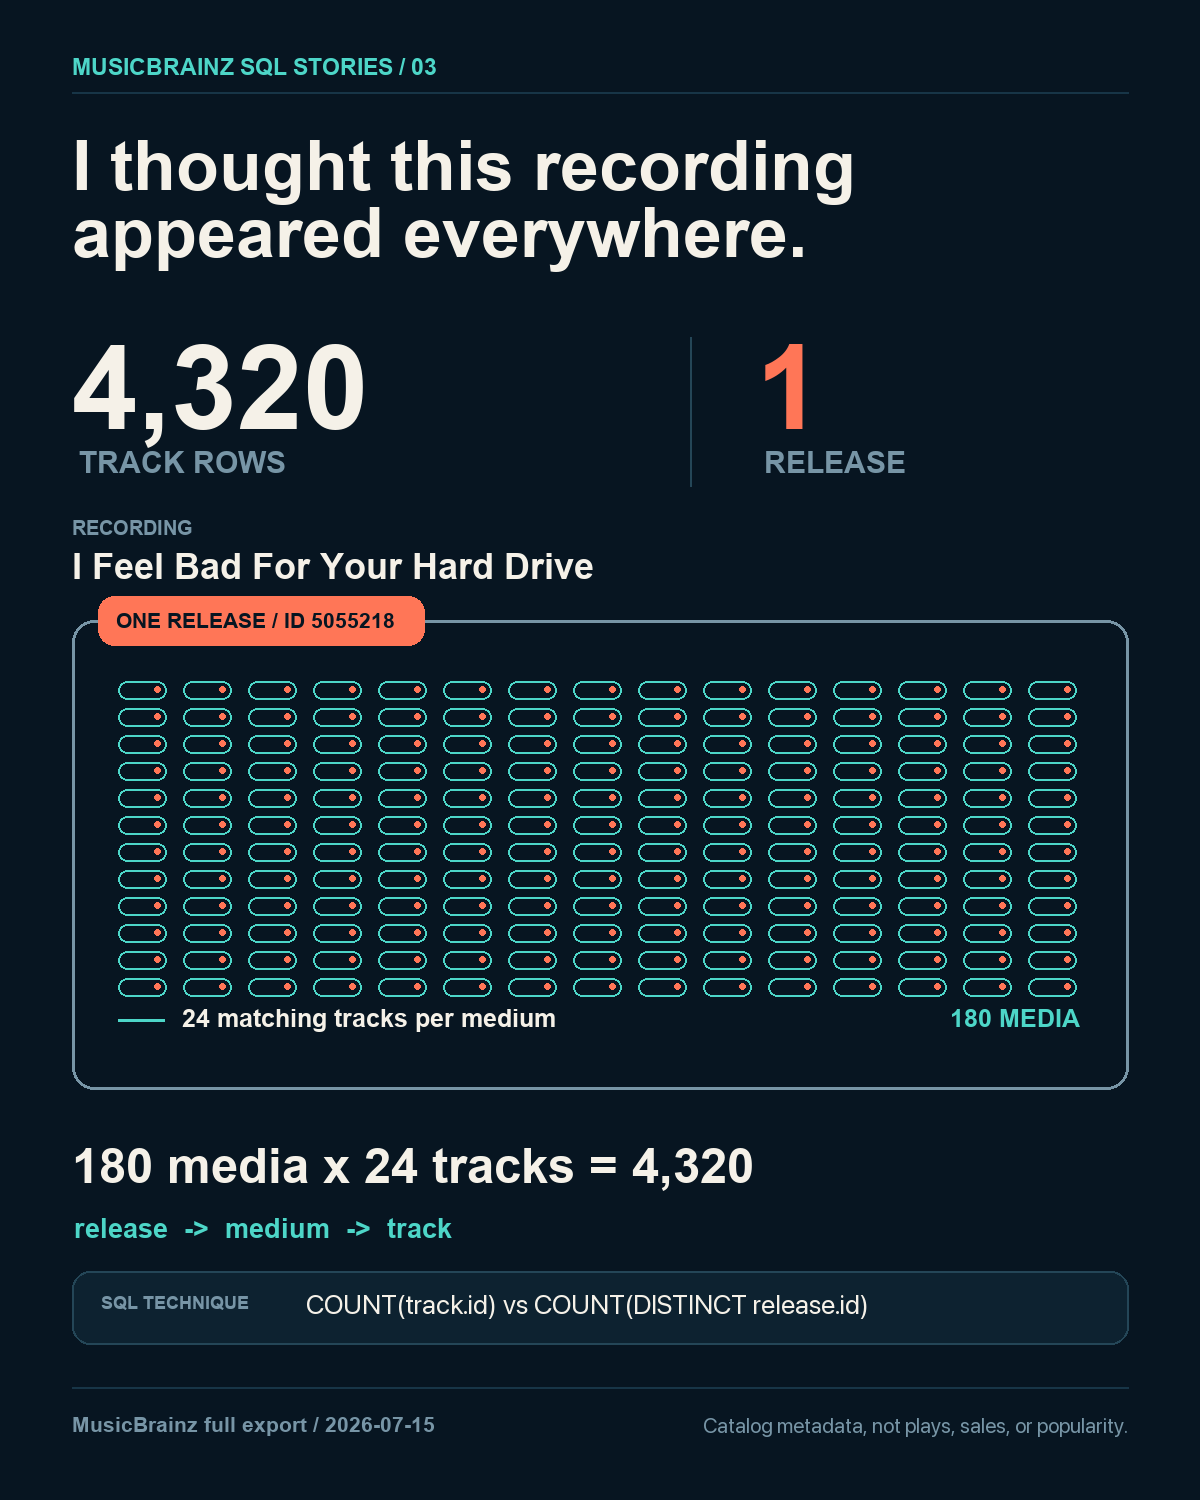
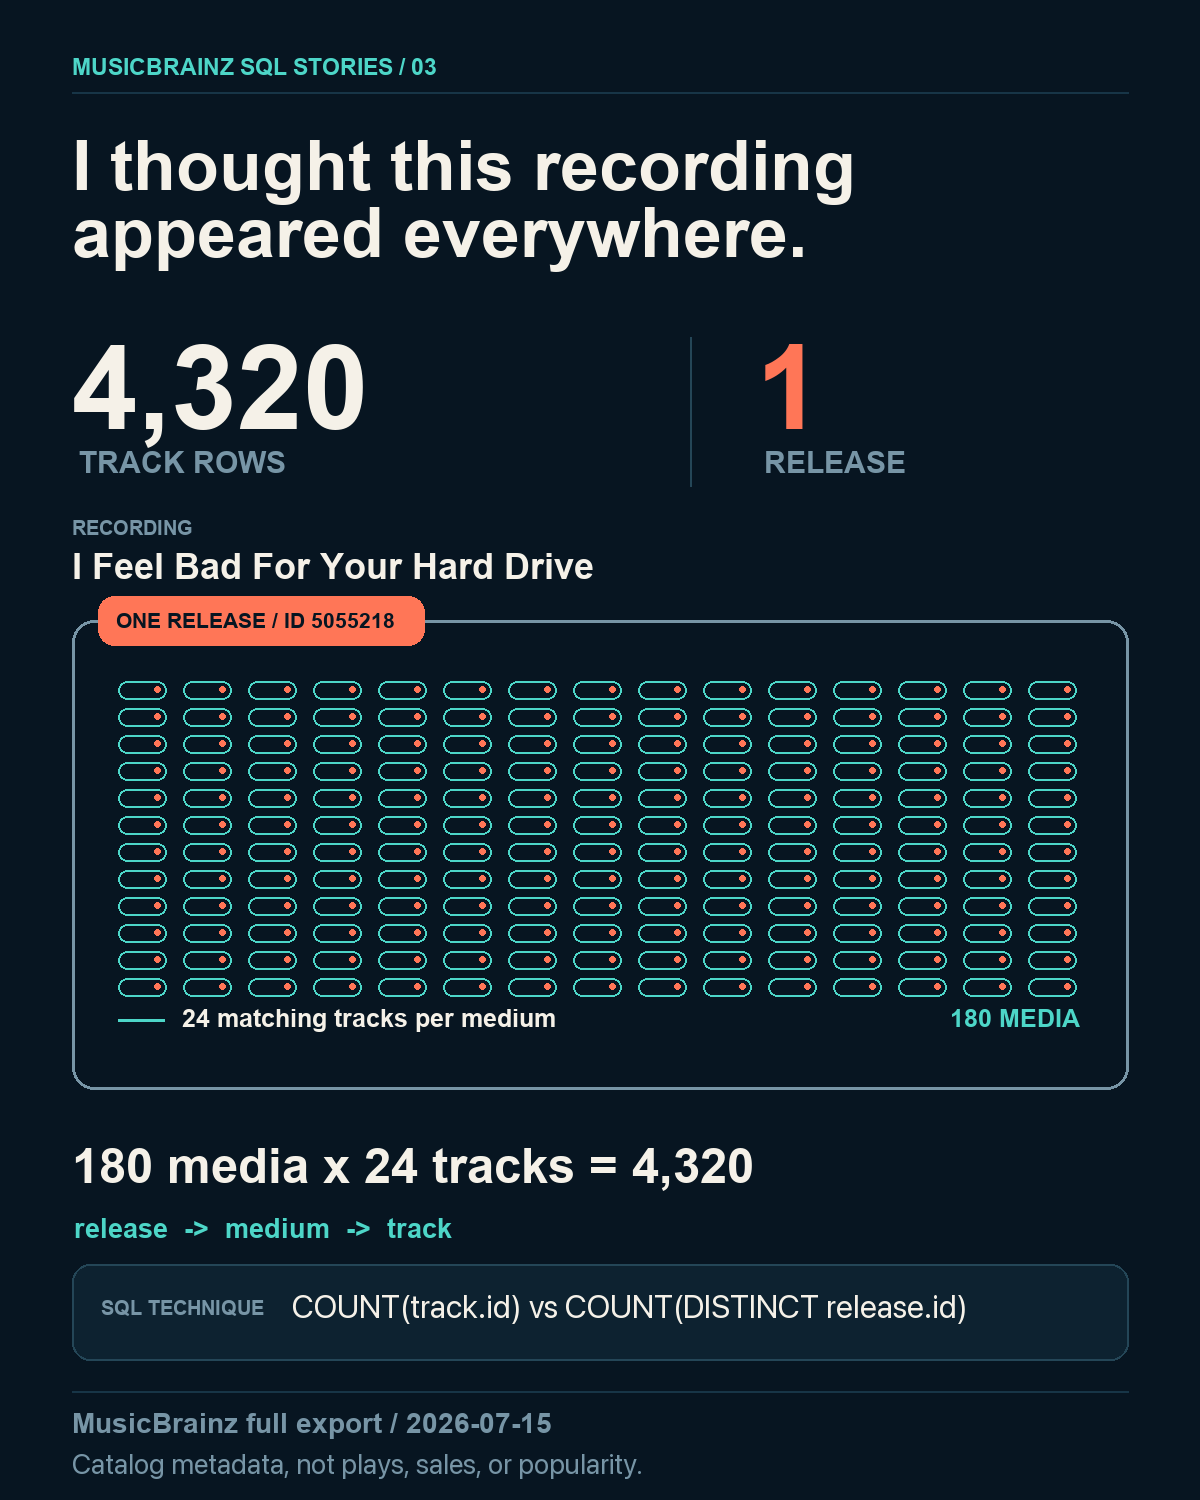
fix: improve recording reuse feed typography

diff --git a/projects/03-recording-reuse/scripts/build_visual.py b/projects/03-recording-reuse/scripts/build_visual.py
@@ -24,6 +24,12 @@ CYAN = "#4DD6C8"
 CORAL = "#FF7657"
 MUTED_BLUE = "#7795A6"
 
+SUPPORT_TEXT_SIZES = {
+    "sql_method": 32,
+    "snapshot": 28,
+    "catalog_limit": 28,
+}
+
 
 def medium_positions(
     columns: int = COLUMNS,
@@ -31,6 +37,11 @@ def medium_positions(
 ) -> list[tuple[int, int]]:
     """Return logical column/row positions for every medium in the grid."""
     return [(column, row) for row in range(rows) for column in range(columns)]
+
+
+def supporting_text_sizes() -> dict[str, int]:
+    """Return sizes for required lines that must survive a 30% feed preview."""
+    return dict(SUPPORT_TEXT_SIZES)
 
 
 def _font(size: int, *, bold: bool = False) -> ImageFont.FreeTypeFont | ImageFont.ImageFont:
@@ -172,33 +183,32 @@ def build_visual(output_path: Path = PNG_PATH) -> Path:
     )
 
     draw.rounded_rectangle(
-        (72, 1271, 1128, 1344),
+        (72, 1264, 1128, 1360),
         radius=18,
         fill="#0D2230",
         outline="#244657",
         width=2,
     )
-    draw.text((101, 1292), "SQL TECHNIQUE", font=_font(18, bold=True), fill=MUTED_BLUE)
+    draw.text((101, 1296), "SQL TECHNIQUE", font=_font(20, bold=True), fill=MUTED_BLUE)
     draw.text(
-        (306, 1287),
+        (292, 1287),
         "COUNT(track.id) vs COUNT(DISTINCT release.id)",
-        font=_font(27),
+        font=_font(SUPPORT_TEXT_SIZES["sql_method"]),
         fill=OFF_WHITE,
     )
 
-    draw.line((72, 1387, 1128, 1387), fill="#173547", width=2)
+    draw.line((72, 1391, 1128, 1391), fill="#173547", width=2)
     draw.text(
-        (72, 1412),
+        (72, 1407),
         "MusicBrainz full export / 2026-07-15",
-        font=_font(21, bold=True),
+        font=_font(SUPPORT_TEXT_SIZES["snapshot"], bold=True),
         fill=MUTED_BLUE,
     )
     draw.text(
-        (1128, 1412),
+        (72, 1446),
         "Catalog metadata, not plays, sales, or popularity.",
-        font=_font(21),
+        font=_font(SUPPORT_TEXT_SIZES["catalog_limit"]),
         fill=MUTED_BLUE,
-        anchor="ra",
     )
 
     output_path.parent.mkdir(parents=True, exist_ok=True)

diff --git a/projects/03-recording-reuse/tests/test_visual.py b/projects/03-recording-reuse/tests/test_visual.py
@@ -4,6 +4,7 @@ from pathlib import Path
 
 from PIL import Image
 
+from scripts import build_visual as visual
 from scripts.build_visual import build_visual, medium_positions
 
 
@@ -20,6 +21,14 @@ class VisualTest(unittest.TestCase):
             with Image.open(output) as image:
                 self.assertEqual(image.size, (1200, 1500))
                 self.assertIn(image.mode, {"RGB", "RGBA"})
+
+    def test_required_supporting_text_is_legible_at_feed_scale(self):
+        sizes = visual.supporting_text_sizes()
+        self.assertEqual(
+            set(sizes),
+            {"sql_method", "snapshot", "catalog_limit"},
+        )
+        self.assertGreaterEqual(min(sizes.values()) * 0.30, 8)
 
 
 if __name__ == "__main__":